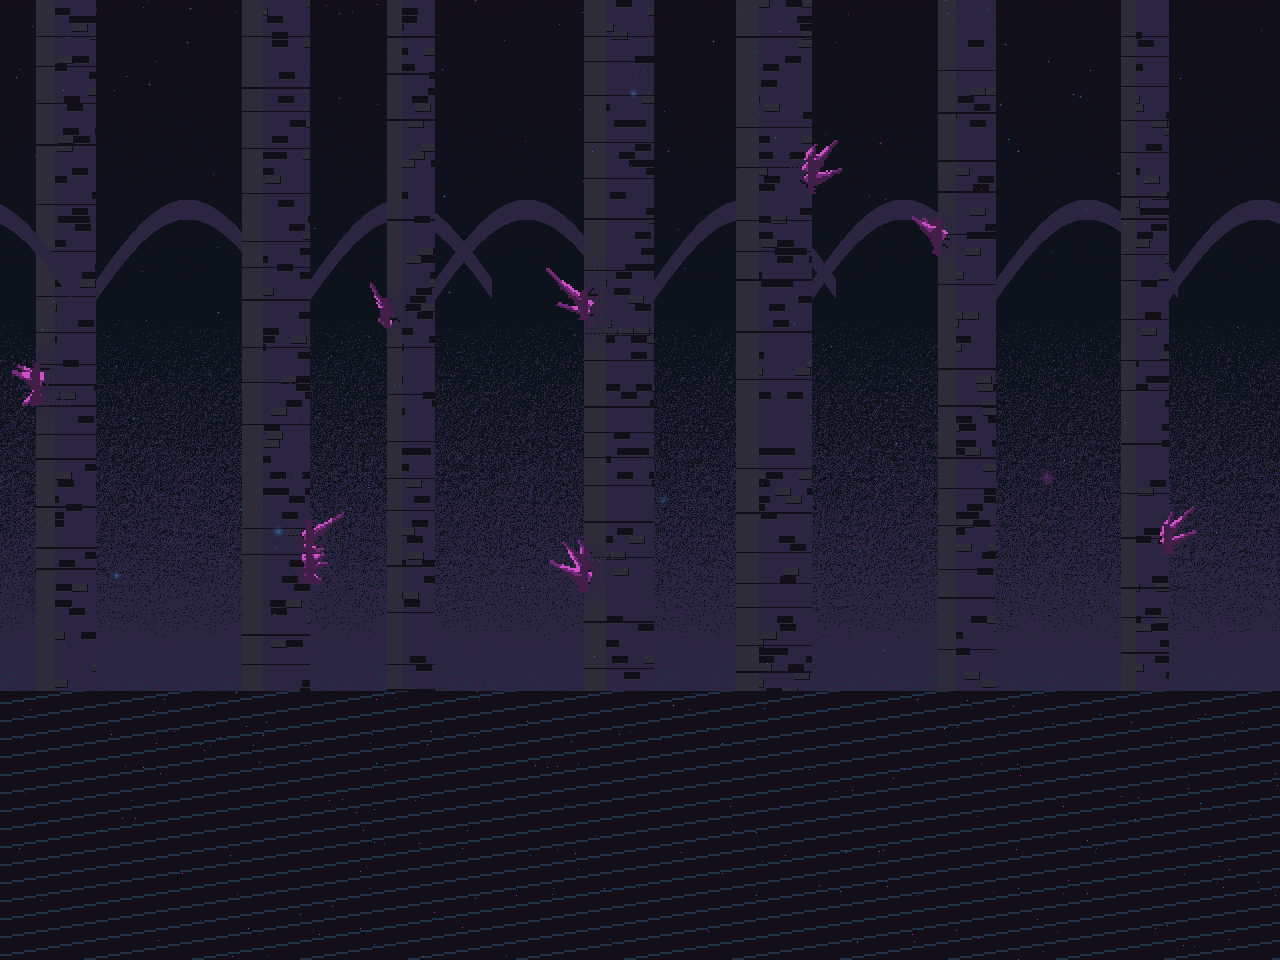
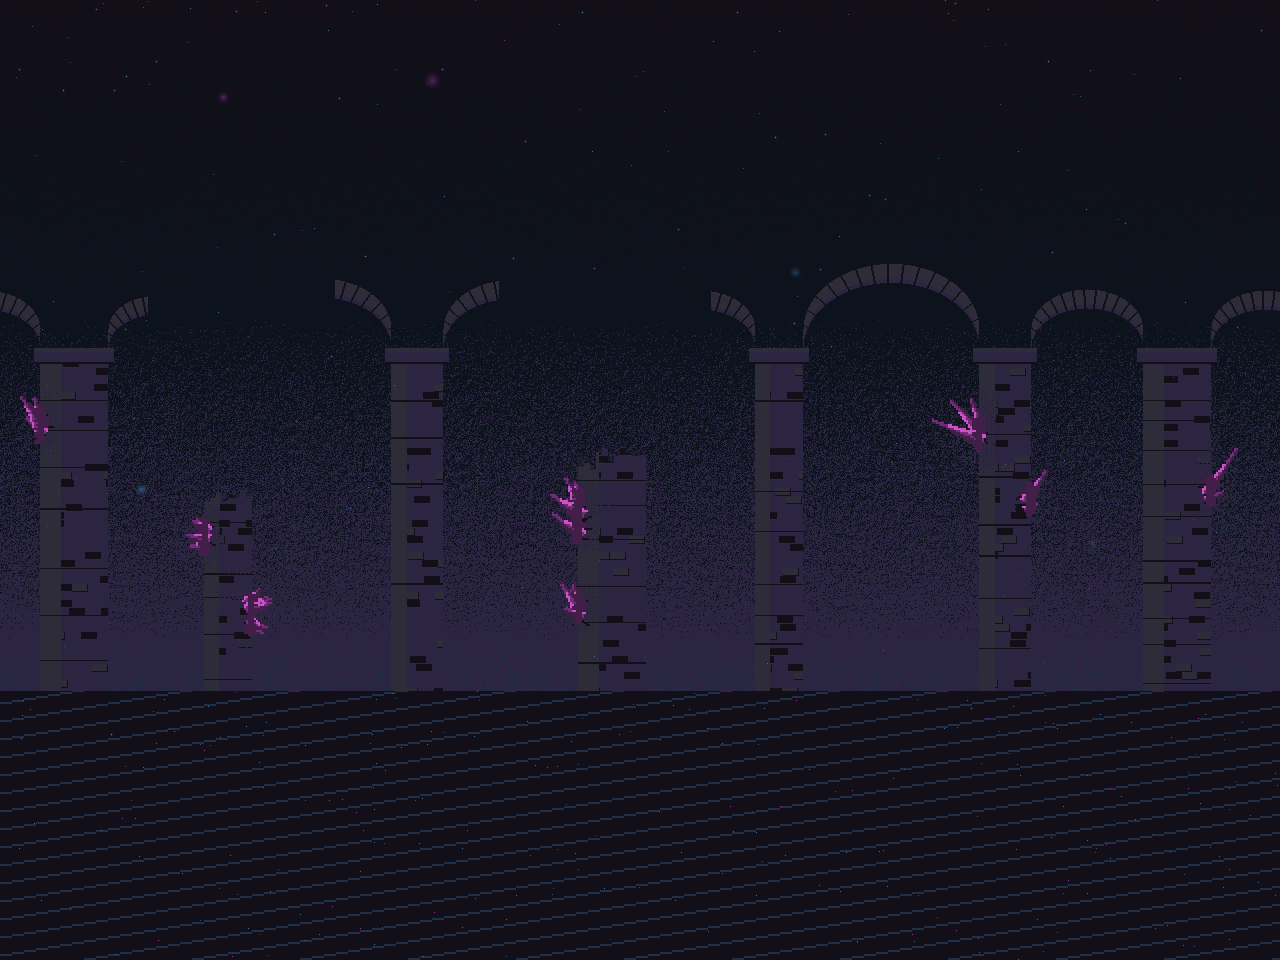
Pass 643: the far columns break
The Heartwood's far fibres hang or rise, lean, fork and end; the Tower's far
shafts stand in three storeys on gallery floors; Vorrhallow's far pillars
carry capitals and arches, two broken off (bible 12.119).

diff --git a/tools/art/tilegen.py b/tools/art/tilegen.py
@@ -1934,24 +1934,60 @@ def far_motes(img, rng, cols, glows=5):
             img.putpixel((x, y), c(col))
 
 
+# The far columns break (design bible 12.119, pass 643). The pass 640 grade saw "the
+# same trunk columns behind five areas": the Heartwood's far fibres, Vorrhallow's far
+# pillars and the Tower's far shafts were each a row of bars running the full height
+# of the layer, so three zones read as one band of stripes. Now no far column runs
+# from top to bottom: the Heartwood's fibres hang from the roof or rise from the floor,
+# lean, fork and taper to a tip; the Tower's shafts stand in three storeys, each on a
+# gallery floor and set between the shafts of the storey under it; Vorrhallow's
+# pillars carry capitals and round arches, with the vault lost in the dark above, and
+# two of them are broken off.
+FAR_RUN_MAX = 0.8  # the longest a far column may run, as a share of the layer's height
+
+
+def _fibre(img, x0, y0, down, length, w, lean, col, seed, depth=0):
+    """One fibre of the great tree, far off: from x0, y0 it runs `length` rows down
+    (or up), leaning `lean` px a row and curving, from `w` wide to a tip; a streaked
+    grain runs along it and its lit side is to the west. Some fibres fork."""
+    grain = "night-0" if col == "bark-1" else "bark-0"
+    fork = int(length * (0.4 + 0.25 * hash2(seed, 3, 77))) if depth == 0 and hash2(seed, 4, 77) > 0.4 else None
+    for t in range(length):
+        y = y0 + (t if down else -t)
+        k = t / length
+        ww = max(3 * D, int(w * (1 - 0.75 * k ** 1.3)))
+        cx = x0 + lean * t + math.sin(t * 0.012 + seed) * 4 * D
+        left = int(cx - ww / 2)
+        for dx in range(ww):
+            if hash2(dx // 2, y // 9, seed) > 0.08:
+                put(img, left + dx, y, c(col))
+        for g in range(3, ww - 2, 7):
+            if hash2(g, y // 40, seed + 50) > 0.45:
+                put(img, left + g, y, c(grain))
+        if ww > 4 * D:
+            put(img, left, y, c("bark-2" if col == "bark-1" else "bark-1"))
+        if t == fork:
+            # A strand parts from the fibre and leans away on its own.
+            _fibre(img, cx, y, down, int((length - t) * 0.8), max(4 * D, int(ww * 0.55)),
+                   -lean * 1.6 + (0.15 if lean <= 0 else -0.15), col, seed + 31, depth + 1)
+
+
 def heartwood_far():
     img = Image.new("RGBA", (BG_W, BG_H), c("night-0"))
     gradient(img, "night-0", "bark-0")
     rng = random.Random(5)
-    # Great fibres of the trunk's heartwood, far away, with a streaked grain.
-    for i in range(14):
+    # Great fibres of the trunk's heartwood, far away (bible 12.119): half hang from
+    # the hollow's roof and half rise from its floor, none runs the whole height, and
+    # each leans its own way, so the far wall reads as a braid and not as a row of
+    # trunks.
+    for i in range(22):
+        down = i % 2 == 0
         x0 = rng.randrange(BG_W)
-        w = rng.randrange(10, 26) * D
+        w = rng.randrange(16, 36) * D
+        length = rng.randrange(int(BG_H * 0.4), int(BG_H * 0.7))
+        lean = rng.uniform(0.12, 0.4) * rng.choice([-1, 1])
         col = "bark-1" if i % 3 else "night-1"
-        for y in range(BG_H):
-            sway = int(math.sin(y * 0.01 + i) * 6 * D)
-            for dx in range(w):
-                if hash2(dx // 2, y // 9, i) > 0.08:
-                    put(img, x0 + sway + dx, y, c(col))
-            # Grain lines down the fibre.
-            for g in range(3, w - 2, 7):
-                if hash2(g, y // 40, i + 50) > 0.45:
-                    put(img, x0 + sway + g, y, c("night-0" if col == "bark-1" else "bark-0"))
+        _fibre(img, x0, 0 if down else BG_H - 1, down, length, w, lean, col, i)
     # Faint glowing spores, a few of them larger and haloed.
     for k in range(240):
         x, y = rng.randrange(BG_W), rng.randrange(BG_H)
@@ -2164,24 +2200,51 @@ def tower_far():
     img = Image.new("RGBA", (BG_W, BG_H), c("night-0"))
     gradient(img, "night-0", "ember-0")
     rng = random.Random(21)
-    # The tower's far shafts: tall stone columns with lit slit windows.
-    for i in range(6):
-        x0 = rng.randrange(BG_W)
-        w = rng.randrange(30, 60) * D
-        cs = masonry_courses(0, BG_H, 210 + i, 12 * D)
-        for y in range(BG_H):
-            for dx in range(w):
-                col = masonry_shade(x0 + dx, y, 210 + i, "night-0", "night-1", "stone-2")
-                if y in cs:
-                    col = "night-0"  # a weathered mortar course
-                elif dx % (16 * D) == 0 and hash2(dx // D, y // (10 * D), i) > 0.45:
-                    col = "night-0"  # a worn vertical joint, broken by height
-                put(img, x0 + dx, y, c(col))
-        for wy in range(rng.randrange(20, 60) * D, BG_H, rng.randrange(60, 110) * D):
-            wx = x0 + w // 2 - 2 * D
-            for yy in range(wy, wy + 8 * D):
-                for xx in range(wx, wx + 3 * D):
-                    put(img, xx, yy, c("gold-3" if yy > wy + 2 else "gold-4"))
+    # The tower's far shafts (bible 12.119): three storeys, each standing on a
+    # gallery floor, and each storey's shafts set between the shafts of the one
+    # under it, so no shaft runs the height of the tower.
+    floors = [0, int(BG_H * 0.34) + rng.randrange(-20, 20) * D, int(BG_H * 0.68) + rng.randrange(-20, 20) * D, BG_H]
+    slot = BG_W // 5
+    for tier in range(3):
+        top, bottom = floors[tier], floors[tier + 1]
+        for k in range(5):
+            w = rng.randrange(24, 44) * D
+            cx = k * slot + (slot // 2 if tier % 2 else 0) + rng.randrange(-8, 9) * D
+            x0 = cx - w // 2
+            seed = 210 + tier * 5 + k
+            cs = masonry_courses(top, bottom, seed, 12 * D)
+            for y in range(top, bottom):
+                for dx in range(w):
+                    col = masonry_shade(x0 + dx, y, seed, "night-0", "night-1", "stone-2")
+                    if y in cs:
+                        col = "night-0"  # a weathered mortar course
+                    elif dx % (16 * D) == 0 and hash2(dx // D, y // (10 * D), seed) > 0.45:
+                        col = "night-0"  # a worn vertical joint, broken by height
+                    put(img, x0 + dx, y, c(col))
+            # The shaft's head: corbels stepping out under the floor above.
+            if tier:
+                for step in range(3):
+                    for yy in range(top + 4 * D + step * 3 * D, top + 4 * D + (step + 1) * 3 * D):
+                        for dx in range(-(3 - step) * 2 * D, w + (3 - step) * 2 * D):
+                            put(img, x0 + dx, yy, c("night-0" if yy == top + 4 * D + (step + 1) * 3 * D - 1 else "night-1"))
+            if bottom - top > 60 * D and rng.random() < 0.7:
+                wy = top + rng.randrange(20, max(21, (bottom - top) // D - 40)) * D
+                wx = x0 + w // 2 - 2 * D
+                for yy in range(wy, wy + 8 * D):
+                    for xx in range(wx, wx + 3 * D):
+                        put(img, xx, yy, c("gold-3" if yy > wy + 2 else "gold-4"))
+    # The gallery floors: a lit lip over a dark slab, and a railing on it.
+    for fy in floors[1:3]:
+        for y in range(fy - 4 * D, fy + 4 * D):
+            for x in range(BG_W):
+                col = "stone-2" if y < fy - 3 * D else ("night-0" if y >= fy + 3 * D else "night-1")
+                put(img, x, y, c(col))
+        for x in range(0, BG_W, 14 * D):
+            for y in range(fy - 14 * D, fy - 4 * D):
+                put(img, x, y, c("night-1"))
+                put(img, x + 1, y, c("night-1"))
+        for x in range(BG_W):
+            put(img, x, fy - 14 * D, c("night-1"))
     # Great gears turning in the dark.
     for i in range(4):
         gear(img, rng.randrange(BG_W), rng.randrange(80, BG_H - 80), rng.randrange(50, 110), rng.choice([10, 12, 14]),
@@ -2941,14 +3004,23 @@ def vorrhallow_far():
     # The drowned capital's great hall: rows of colossal pillars and arches
     # sunk to their knees in dark water, crystal light glowing between them.
     water = int(BG_H * 0.72)
-    pillars = []
+    # The arcade (bible 12.119): the pillars carry capitals at one spring line and
+    # round arches between them, the vault above is lost in the dark, and two of the
+    # pillars are broken off, the arches beside them fallen.
+    spring = int(BG_H * 0.38)
+    broken = set(rng.sample(range(7), 2))
+    pillars, tops = [], []
     for i in range(7):
         x0 = int((i + rng.uniform(0.0, 0.4)) * BG_W / 7)
         w = rng.randrange(24, 40) * D
+        top = spring + rng.randrange(30, 90) * D if i in broken else spring
         pillars.append((x0, w))
-        cs = masonry_courses(0, BG_H, 440 + i, 18 * D)
-        for y in range(BG_H):
+        tops.append(top)
+        cs = masonry_courses(top, BG_H, 440 + i, 18 * D)
+        for y in range(top, BG_H):
             for dx in range(w):
+                if i in broken and y < top + int(hash2(dx // (3 * D), 1, 440 + i) * 14 * D):
+                    continue  # the broken top, jagged
                 # The far pillars: weathered courses on a jittered period, each
                 # stone a touch lighter or darker, so the great hall stops reading
                 # as one stamped column (bible 12.14). Muted (stone-1, no stone-2)
@@ -2957,13 +3029,30 @@ def vorrhallow_far():
                 if y in cs:
                     col = "night-0"  # a weathered mortar course
                 put(img, x0 + dx, y, c(col))
-        # An arch springing to the next pillar.
-        span = BG_W // 7
-        for dx in range(span):
-            k = dx / span
-            top = int(60 * D + math.sin(k * math.pi) * -40 * D) + 90 * D
-            for y in range(top - 10 * D, top):
-                put(img, x0 + w + dx, y, c("night-1"))
+        if i not in broken:
+            # The capital: a block stepped out over the shaft, lit on its top.
+            for y in range(spring - 8 * D, spring):
+                for dx in range(-3 * D, w + 3 * D):
+                    col = "stone-1" if y < spring - 6 * D else ("night-0" if y >= spring - D else "night-1")
+                    put(img, x0 + dx, y, c(col))
+    # Round arches from each capital to the next; one beside a broken pillar has
+    # fallen, leaving its springing on the standing side as a stub.
+    for i in range(7):
+        x0, w = pillars[i]
+        x1 = pillars[(i + 1) % 7][0] + (BG_W if i == 6 else 0)
+        a, b = x0 + w + 3 * D, x1 - 3 * D
+        span = b - a
+        if span < 20 * D:
+            continue
+        for dx in range(-3 * D, span + 3 * D):
+            if i in broken and dx < span * 0.6 or (i + 1) % 7 in broken and dx > span * 0.4:
+                continue
+            u = min(1.0, max(-1.0, (dx - span / 2) / (span / 2 + 3 * D)))
+            inner = spring - 8 * D - int(math.sqrt(1 - u * u) * (span / 2) * 0.8)
+            for y in range(inner - 10 * D, inner):
+                joint = int(math.atan2(spring - y, dx - span / 2) / 0.16) != int(math.atan2(spring - y, dx + D - span / 2) / 0.16)
+                col = "night-0" if joint or y == inner - 10 * D else ("night-1" if y >= inner - 2 * D else "stone-1")
+                put(img, a + dx, y, c(col))
     # Stillglass grown out of the far pillars' faces, glowing magenta: each cluster
     # is seated on a pillar's face and leans up and away from it (bible 12.51).
     seats = []
@@ -2972,7 +3061,7 @@ def vorrhallow_far():
         x0, w = pillars[(k * 3 + rng.randrange(2)) % len(pillars)]
         side = rng.choice([-1, 1])
         rx = (x0 if side < 0 else x0 + w - D) // D
-        ry = rng.randrange(80, water // D - 30)
+        ry = rng.randrange(tops[pillars.index((x0, w))] // D + 24, water // D - 30)
         seats.append((rx, ry, side))
         stillglass_growth(img, rx, ry, side * math.pi / 2, side * rng.uniform(0.5, 1.0), rng,
                           rng.randrange(14, 27), rng.randrange(6, 9),

diff --git a/tools/art/test_tilegen.py b/tools/art/test_tilegen.py
@@ -679,6 +679,53 @@ def test_the_heartwood_stands_on_roots_of_its_own():
     assert thin > tg.BG_W // 2 * 0.4, f"the far layer shows through the arches in only {thin} columns"
 
 
+def _far_column_run(img, top, bottom):
+    """The longest vertical run, as a share of the layer's height, of anything drawn
+    over a far layer's sky (the `gradient` from `top` to `bottom`) in one column of
+    pixels, bridging gaps of up to 12 world px (mortar courses, a grain's breaks)."""
+    from PIL import Image
+    sky = Image.new("RGBA", (tg.BG_W, tg.BG_H))
+    tg.gradient(sky, top, bottom)
+    a, b = img.load(), sky.load()
+    longest = 0
+    for x in range(0, tg.BG_W, 2):
+        run = gap = 0
+        for y in range(tg.BG_H):
+            if a[x, y] != b[x, y]:
+                run = run + gap + 1 if run else 1
+                gap = 0
+                longest = max(longest, run)
+            else:
+                gap += 1
+                if gap > 12 * tg.D:
+                    run = gap = 0
+    return longest / tg.BG_H
+
+
+def test_no_far_column_runs_the_height_of_its_layer():
+    # The pass 640 grade saw "the same trunk columns behind five areas": the far
+    # fibres of the Heartwood, the far pillars of Vorrhallow and the far shafts of the
+    # Tower each ran the full height of the layer. Now none does (bible 12.119, pass
+    # 643): the fibres hang or rise, lean and end; the shafts stand in storeys set
+    # between each other; the pillars stop at capitals under arches, over the dark.
+    # (Running any of them the full height again fails here.)
+    for painter, top, bottom in ((tg.heartwood_far, "night-0", "bark-0"), (tg.tower_far, "night-0", "ember-0"),
+                                 (tg.vorrhallow_far, "night-0", "sky-1")):
+        run = _far_column_run(painter(), top, bottom)
+        assert run <= tg.FAR_RUN_MAX, f"{painter.__name__}: a column runs {run:.2f} of the layer's height"
+    # And the far layers still have their columns: something stands in most of the
+    # width of each, so the fix is not an empty sky.
+    for painter, top, bottom in ((tg.heartwood_far, "night-0", "bark-0"), (tg.tower_far, "night-0", "ember-0"),
+                                 (tg.vorrhallow_far, "night-0", "sky-1")):
+        from PIL import Image
+        sky = Image.new("RGBA", (tg.BG_W, tg.BG_H))
+        tg.gradient(sky, top, bottom)
+        a, b = painter().load(), sky.load()
+        y = int(tg.BG_H * 0.55)
+        stood = sum(1 for x in range(0, tg.BG_W, 2) if any(a[x, yy] != b[x, yy] for yy in range(y - 4, y + 4)))
+        assert stood > tg.BG_W // 2 * 0.25, f"{painter.__name__}: columns stand in only {stood} of the width"
+
+
 def test_a_leaning_shard_has_no_gaps():
     # A leaning shard slid each column sideways, leaving holes in its crest, and every
     # hole drew a cleft: the crystal halls' ridge was striped. It is whole now: from

diff --git a/docs/loop/pass-643.md b/docs/loop/pass-643.md
@@ -1,0 +1,99 @@
+# Pass 643: the far columns break
+
+## Category
+
+Art cohesion and environments. The top item of the queue, the rest of the pass 640 grade's
+first item: "the same pine band and trunk columns behind five areas". Pass 642 gave the
+Heartwood a ridge of its own; this pass takes the trunk columns.
+
+No note from Sean was new. The PixelLab art loop stays **gated** on Sean: three guardian bases
+(Haar Wyrm, Thane Vorrund, Drowned Warden) wait for his OK, the limit of three. No PixelLab
+generations were spent, and no Autosprite credits. README's playtest link already points at
+https://github.com/sagedragoon79/Yldenfall.
+
+## Audit
+
+In `heartwood/entrance`, `tower/foot` and `vorrhallow/alpha_den`, the far layer was a row of
+columns, each running the full height of the layer:
+
+- **The Heartwood's fibres**: 14 bars of streaked bark, swaying a little, top to bottom.
+- **The Tower's shafts**: 6 masonry shafts, top to bottom, with slit windows.
+- **Vorrhallow's pillars**: 7 pillars, top to bottom, with a faint band near the top for an arch.
+
+Measured as the longest run, in one column of pixels, of anything drawn over the layer's sky
+(bridging gaps of up to 12 world px), each layer scored 1.00 of its height.
+
+## What was built
+
+Design bible 12.119, in `tools/art/tilegen.py`. No far column now runs more than
+`FAR_RUN_MAX` (0.8) of its layer's height.
+
+- **The Heartwood: a braid** (`heartwood_far`, `_fibre`). 22 fibres, half hanging from the
+  hollow's roof and half rising from its floor, each 0.4 to 0.7 of the layer long, leaning its own
+  way and curving, narrowing to a quarter of its width at its end, lit on its west edge. One in
+  two forks, the strand leaning away. Longest run: 0.47.
+- **The Tower: storeys** (`tower_far`). Three storeys of five shafts, each on a gallery floor (a
+  lit lip, a dark slab, a railing), each storey half a bay over from the one under it, each shaft's
+  head stepping out in corbels under the floor above. Longest run: 0.53.
+- **Vorrhallow: an arcade** (`vorrhallow_far`). The pillars rise out of the water to capitals at
+  one spring line, with round voussoir arches between them and the vault lost in the dark above.
+  Two pillars are broken off lower (jagged tops, no capital), and the arches beside them have
+  fallen, leaving a stub on the standing side. The stillglass is seated below each pillar's top.
+  Longest run: 0.66 (the water counts).
+
+Thrown out on the way:
+
+- **Fibres tapering to a point**, 10 to 24 px wide, 16 of them. The far wall read nearly empty,
+  a few blades of grass on the dark. They are now 16 to 36 px wide, 22 of them, and end at a
+  quarter of their width.
+- **Arches fallen to three quarters of the bay** beside a broken pillar. Too little stood to read
+  as a springing; the stub is now 0.4 of the bay.
+
+## Checked by eye
+
+At 1x and 2x in the three rooms, before and after (after a Godot reimport). The Heartwood's far
+wall is a braid of crossing fibres, the Tower's has a gallery and corbelled shaft heads across
+the top of the view, and Vorrhallow's hall is an arcade. The mid layers' columns (the Tower's
+girders, Vorrhallow's colonnade) still run the room's height; see Next.
+
+## Tests
+
+`test_no_far_column_runs_the_height_of_its_layer` in `tools/art/test_tilegen.py`: in each of the
+three far layers no column runs more than `FAR_RUN_MAX` of the height, and columns still stand in
+more than a quarter of the width at 0.55 of the height (so an empty sky does not pass).
+
+| Mutation | Result |
+| --- | --- |
+| every fibre the layer's full length | fails (0.81) |
+| the Tower in one storey | fails (1.00) |
+| the storeys' shafts stacked over each other | fails (1.00) |
+| Vorrhallow's pillars run to the top | fails (1.00) |
+
+## Full suite
+
+FULL_SUITE_RESULT
+
+## Rubric (design bible 15.3)
+
+| Category | Weight | Score | Notes |
+| --- | --- | --- | --- |
+| Movement feel | 20 | 99 | Unchanged. |
+| Combat and enemies | 15 | 99 | Unchanged. |
+| World and level design | 15 | 99 | Unchanged. |
+| Art cohesion | 15 | 98 | The far columns of three zones no longer read as one band of bars: a braid, storeys, an arcade. The mid layers' columns, the town's skyline, the fog and the Haar's dither stay. |
+| Bosses | 10 | 99 | Unchanged. |
+| Systems | 10 | 99 | Unchanged. |
+| Audio | 5 | 99 | Unchanged. |
+| Stability and performance | 5 | 99 | Unchanged (baked pictures). |
+| Story and world | 5 | 99 | Unchanged. |
+
+Weighted: 98.85.
+
+## Next
+
+The mid layers' full-height columns (the Tower's girders, Vorrhallow's colonnade), and no
+foreground layer framing the rooms. Then: foes in two styles (the knight's grey-green blends
+in); set dressing pasted on (crystals, the tree through the shrine gate, identical islands);
+spikes that read as grass or railings; light as additive circles; ground strip tiling. Held as
+before: the Haar's fog and dither, the sword's slab and the hero's attack pose, the hero's size,
+the shop portrait. The next independent grade is due after pass 645.

diff --git a/docs/design-bible.md b/docs/design-bible.md
@@ -3086,7 +3086,21 @@ The Heartwood's ridge (`RIDGE_KIND` "root", `tools/art/tilegen.py`) is now a row
 
 Judged by eye at 1x and 2x in the Heartwood's rooms, over the far layer and through the haze. `test_the_heartwood_stands_on_roots_of_its_own` (`tools/art/test_tilegen.py`) holds it.
 
-- **Not done here.** The grade's "trunk columns": the full-height columns in the far layers of the Heartwood (its fibres), Vorrhallow (its pillars) and the Tower (its shafts) still read as one band of vertical bars; and no foreground layer frames the rooms.
+- **Not done here.** The grade's "trunk columns" (done in pass 643, 12.119): the full-height columns in the far layers of the Heartwood (its fibres), Vorrhallow (its pillars) and the Tower (its shafts) still read as one band of vertical bars; and no foreground layer frames the rooms.
+
+### 12.119 The far columns break (pass 643)
+
+The rest of the pass 640 grade's first item: the far layers of the Heartwood, Vorrhallow and the Tower were each a row of columns running the full height of the layer (the Heartwood's fibres, Vorrhallow's pillars, the Tower's shafts), so three zones read as one band of vertical bars.
+
+No far column now runs from the top of its layer to the bottom (`FAR_RUN_MAX`, 0.8 of the height, in `tools/art/tilegen.py`):
+
+- **The Heartwood** (`heartwood_far`, `_fibre`). Half the great fibres hang from the hollow's roof and half rise from its floor, each 0.4 to 0.7 of the layer long, leaning its own way and curving, narrowing to a quarter of its width at its end, lit on its west edge. One in two forks partway, the strand leaning away on its own. Hanging and rising fibres cross, so the far wall reads as a braid.
+- **The Tower** (`tower_far`). The far shafts stand in three storeys, each on a gallery floor (a lit lip over a dark slab, with a railing). Each storey's five shafts sit half a bay over from the storey under it, and each shaft's head steps out in corbels under the floor above it. The slit windows and gears stay.
+- **Vorrhallow** (`vorrhallow_far`). The pillars rise out of the water to capitals at one spring line, with round voussoir arches between them; the vault above is lost in the dark. Two pillars are broken off lower, with jagged tops and no capital, and the arches beside them have fallen, leaving a stub on the standing side. The stillglass is seated on the pillars below their tops.
+
+Judged by eye at 1x and 2x in `heartwood/entrance`, `tower/foot` and `vorrhallow/alpha_den`. `test_no_far_column_runs_the_height_of_its_layer` (`tools/art/test_tilegen.py`) holds it.
+
+- **Not done here.** The mid layers' columns (the Tower's girders, Vorrhallow's colonnade) still run the height of the room, and no foreground layer frames the rooms.
 
 ## 13. Asset Production Plan
 
